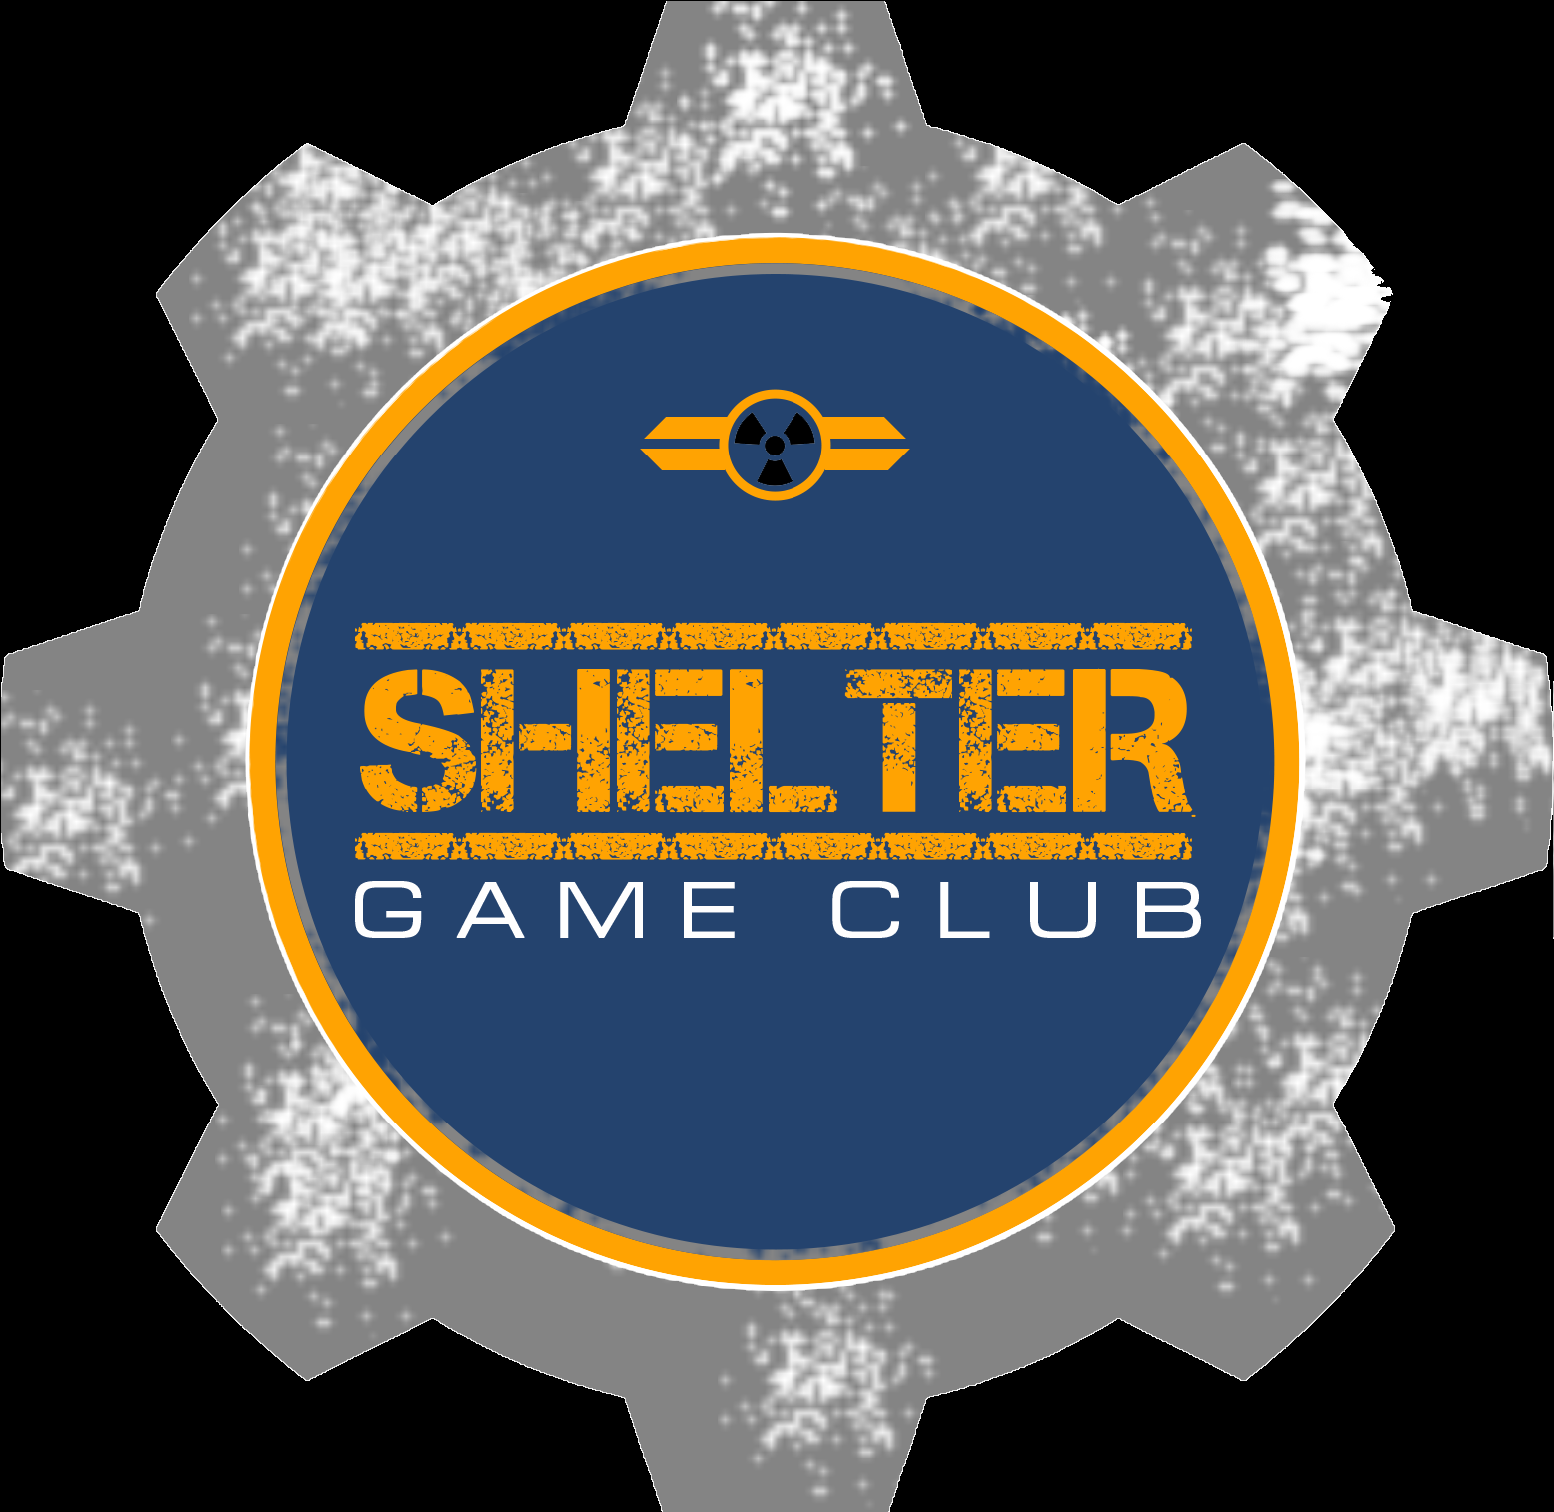
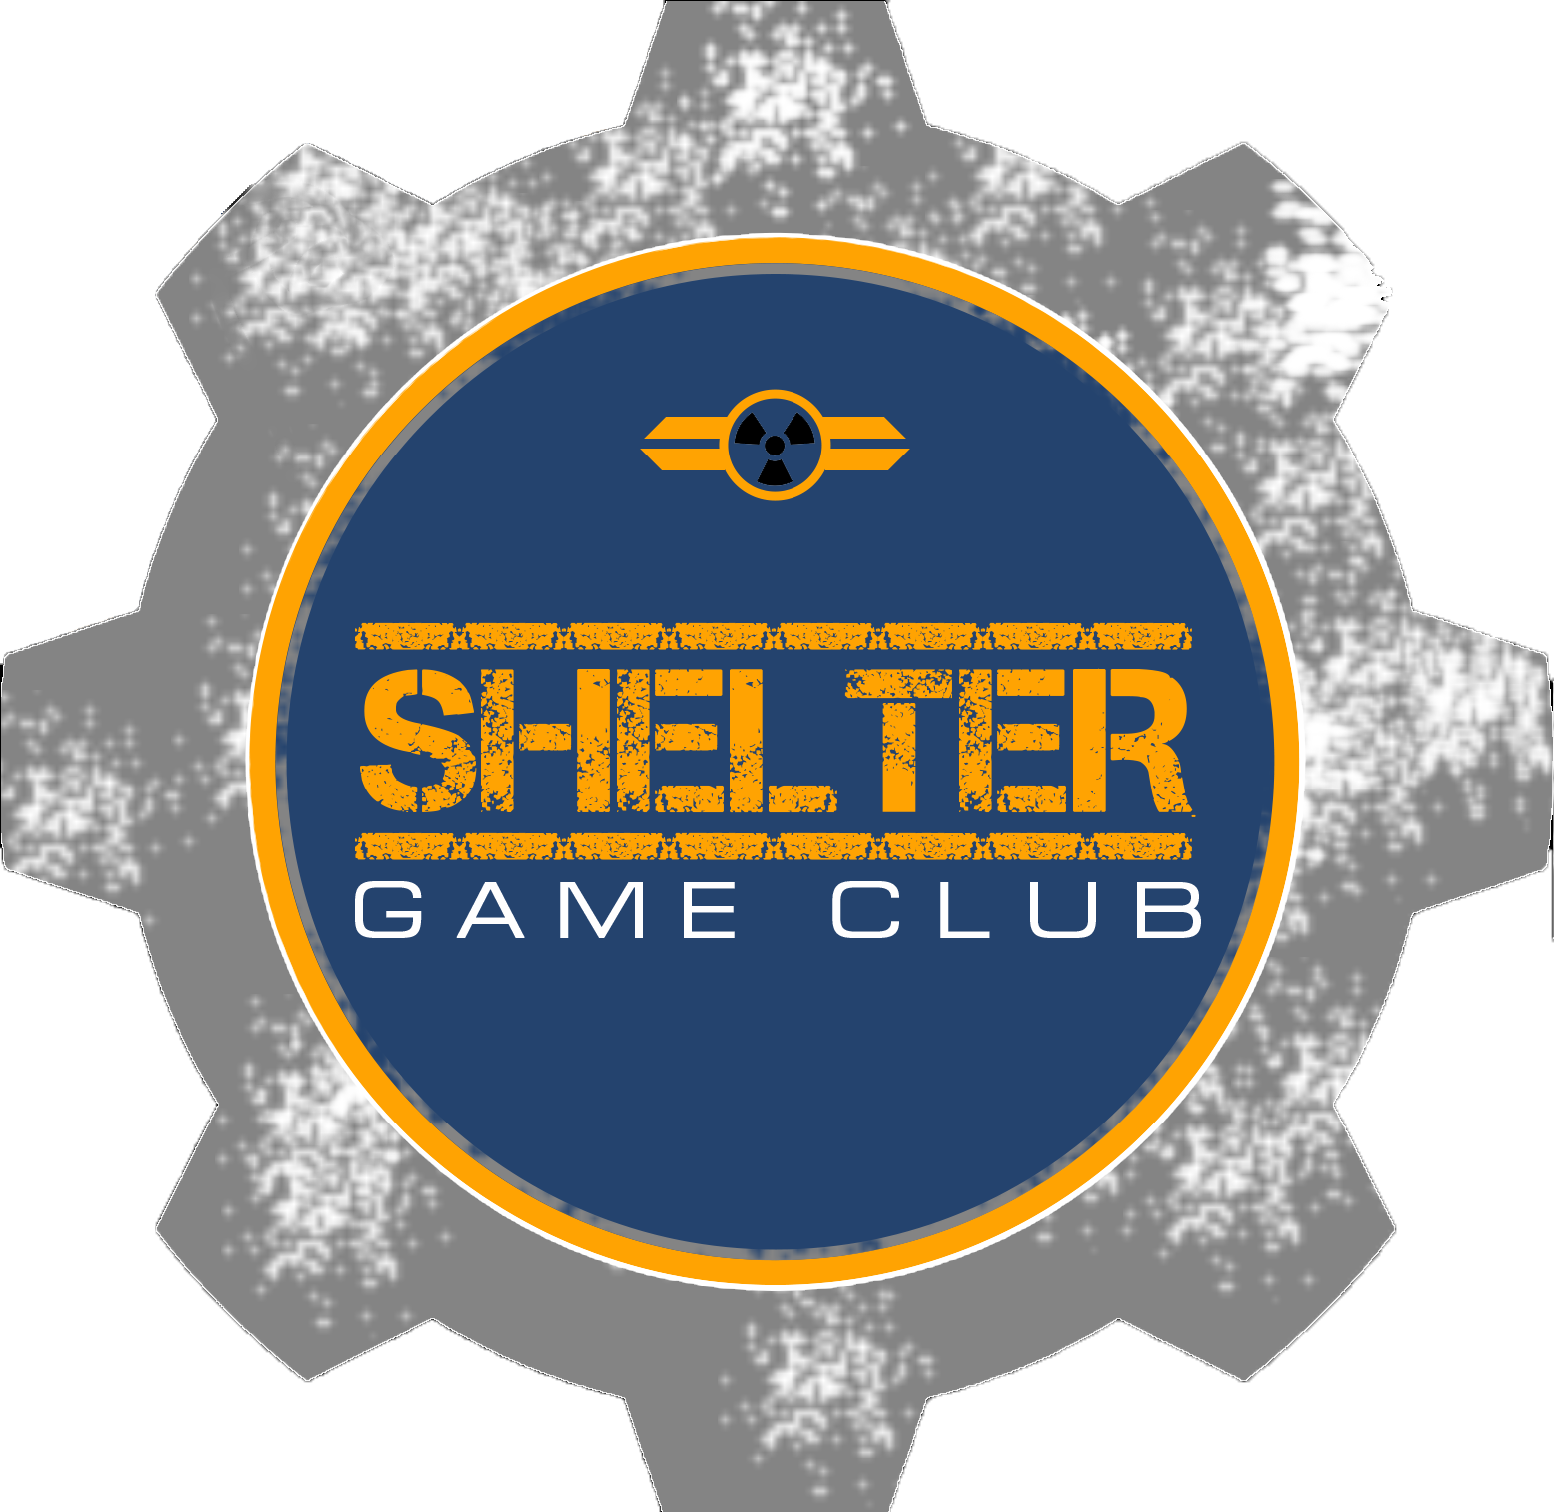
Eberywhere
Поравленны менкие косяки

diff --git a/CSS/Body_Styles.css b/CSS/Body_Styles.css
@@ -9,6 +9,7 @@
 .price{
     border-bottom: 20px solid #131313;
     border-image: url(../Image/border.jpg) 50 round round;
+    background: #000000;
 }
 
 .map_container .swiper-slide {

diff --git a/Admin/adminSite/gameBanner/gameEditing.php b/Admin/adminSite/gameBanner/gameEditing.php
@@ -22,7 +22,7 @@ while ($i < $k) {
 </head>
 <body>
 <a href="../../../index.php" class="main"> <h1>На Главную</h1></a>
-<div>
+<div class="game">
     <div class="swiper-container">
         <div class="swiper-wrapper">
             <?php foreach ($gameDatas as $gameData) { ?>
